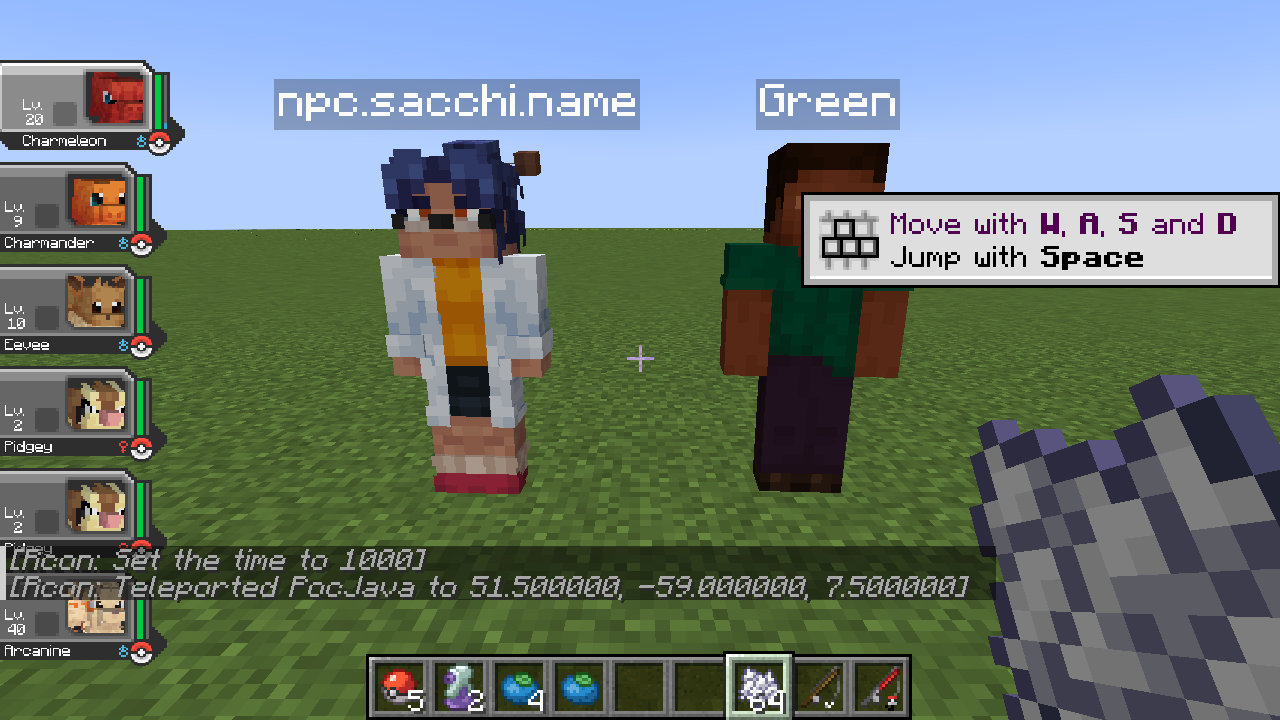
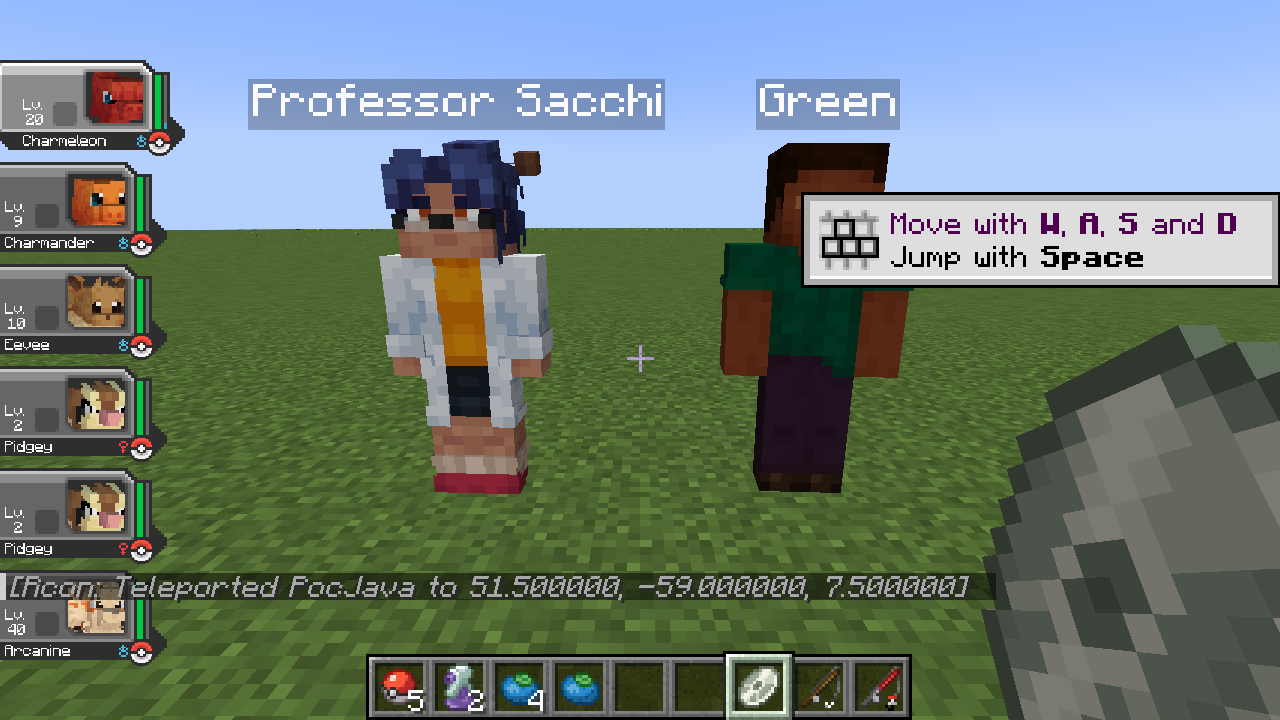
fabric: NPC name tags written out in each player's language (keyed text in display entity data)
Claude-Session: https://claude.ai/code/session_013qmVWfL2vttKu2B98Mqwws

Changed region(s): [[0.0, 0.4278, 1.0, 1.0], [0.1875, 0.0917, 0.5312, 0.1833], [0.5625, 0.9167, 0.625, 1.0]]

diff --git a/fabric/mod/src/main/java/io/github/kahngjoonkoh/cobblemonlink/fabric/mixin/SendMixin.java b/fabric/mod/src/main/java/io/github/kahngjoonkoh/cobblemonlink/fabric/mixin/SendMixin.java
@@ -160,6 +160,13 @@ public class SendMixin {
         // a chunk with Cobblemon's signs in it: their text right after (the chunk's own copy names a type the client lacks)
         if (packet instanceof ClientboundLevelChunkWithLightPacket ch)
             io.github.kahngjoonkoh.cobblemonlink.fabric.Mixins.chunkSigns(h.player, ch.getX(), ch.getZ());
+        // a text display with one of Cobblemon's keys in it (an NPC's name): written out in the player's language
+        if (packet instanceof ClientboundSetEntityDataPacket d && d.packedItems().stream().anyMatch(v -> io.github.kahngjoonkoh.cobblemonlink.fabric.Mixins.langKey(v.value()) != null))
+            return new ClientboundSetEntityDataPacket(d.id(), d.packedItems().stream().map(v -> {
+                String key = io.github.kahngjoonkoh.cobblemonlink.fabric.Mixins.langKey(v.value());
+                return key == null ? v : new net.minecraft.network.syncher.SynchedEntityData.DataValue<>(v.id(), net.minecraft.network.syncher.EntityDataSerializers.COMPONENT,
+                        (net.minecraft.network.chat.Component) net.minecraft.network.chat.Component.literal(io.github.kahngjoonkoh.cobblemonlink.fabric.Lang.get(h.player, key)));
+            }).toList());
         // Cobblemon's signs: their text, as Minecraft's sign (PolyEntry shows the block as one)
         if (packet instanceof ClientboundBlockEntityDataPacket b && BuiltInRegistries.BLOCK_ENTITY_TYPE.getKey(b.getType()).getPath().contains("sign")
                 && BuiltInRegistries.BLOCK_ENTITY_TYPE.getKey(b.getType()).getNamespace().equals("cobblemon"))

diff --git a/fabric/mod/src/main/java/io/github/kahngjoonkoh/cobblemonlink/fabric/Mixins.java b/fabric/mod/src/main/java/io/github/kahngjoonkoh/cobblemonlink/fabric/Mixins.java
@@ -115,4 +115,10 @@ public final class Mixins {
             }
         });
     }
+
+    /** The lang key of a bare translatable text of ours or Cobblemon's (a text display's), else null. */
+    public static String langKey(Object value) {
+        return value instanceof net.minecraft.network.chat.Component c && c.getSiblings().isEmpty()
+                && c.getContents() instanceof net.minecraft.network.chat.contents.TranslatableContents t && Lang.has(t.getKey()) ? t.getKey() : null;
+    }
 }
